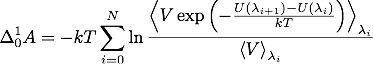
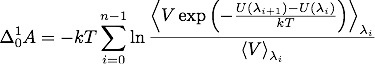
Improved docs.

diff --git a/doc/compute_fep.html b/doc/compute_fep.html
@@ -15,13 +15,13 @@
 </P>
 <PRE>compute ID group-ID fep temp attribute args ... keyword value ... 
 </PRE>
-<UL><LI>ID, group-ID are documented in <A HREF = "compute.html">compute</A> command 
+<UL><LI>ID, group-ID are documented in the <A HREF = "compute.html">compute</A> command 
 
 <LI>fep = name of this compute command 
 
 <LI>temp = external temperature (as specified for constant-temperature run) 
 
-<LI>one or more attribute with args may be appended 
+<LI>one or more attributes with args may be appended 
 
 <LI>attribute = <I>pair</I> or <I>atom</I> 
 
@@ -44,14 +44,13 @@
     <I>yes</I> = include tail correction to pair energies
   <I>volume</I> value = <I>no</I> or <I>yes</I>
     <I>no</I> = ignore volume changes (e.g. in <I>NVE</I> or <I>NVT</I> trajectories)
-    <I>yes</I> = include volume fluctuations (e.g. in <I>NpT</I> trajectories) 
+    <I>yes</I> = include volume changes (e.g. in <I>NpT</I> trajectories) 
 </PRE>
 
 </UL>
 <P><B>Examples:</B>
 </P>
-<PRE>compute 1 all fep 298 pair lj/cut epsilon 1 * v_delta pair lj/cut
-sigma 1 * v_delta volume yes
+<PRE>compute 1 all fep 298 pair lj/cut epsilon 1 * v_delta pair lj/cut sigma 1 * v_delta volume yes
 compute 1 all fep 300 atom charge 2 v_delta 
 </PRE>
 <P><B>Description:</B>
@@ -60,7 +59,7 @@ compute 1 all fep 300 atom charge 2 v_delta
 recalculate the pair potential energy without changing the atomic
 coordinates from those of the reference, unperturbed system. This
 compute can be used to calculate free energy differences using several
-methods: free-energy perturbation (FEP), finite-difference
+methods, such as free-energy perturbation (FEP), finite-difference
 thermodynamic integration (FDTI) or Bennet's acceptance ratio method
 (BAR).
 </P>
@@ -101,11 +100,11 @@ perturbation method using a very small &delta;:
 adapt</A> command can be used to define the stages of
 &lambda; at which the derivative is calculated and averaged.
 </P>
-<P>The compute fep calculates the exponential term and also the potential
-energy difference <I>U</I><sub>1</sub>-<I>U</I><sub>0</sub>. By choosing a very
-small perturbation &delta; the thermodynamic integration method can be
-implemented using a numerical evaluation of the derivative of the
-potential energy with respect to &lambda;:
+<P>The compute fep calculates the exponential Boltzmann term and also the
+potential energy difference <I>U</I><sub>1</sub>-<I>U</I><sub>0</sub>. By
+choosing a very small perturbation &delta; the thermodynamic
+integration method can be implemented using a numerical evaluation of
+the derivative of the potential energy with respect to &lambda;:
 </P>
 <CENTER><IMG SRC = "Eqs/compute_fep_ti.jpg">
 </CENTER>
@@ -148,8 +147,10 @@ the meaning of these parameters:
 </P>
 <DIV ALIGN=center><TABLE  BORDER=1 >
 <TR><TD ><A HREF = "pair_born.html">born</A></TD><TD > a,b,c</TD><TD > type pairs</TD></TR>
-<TR><TD ><A HREF = "pair_buck.html">buck</A></TD><TD > a,c</TD><TD > type pairs</TD></TR>
-<TR><TD ><A HREF = "pair_lj.html">lj/cut</A></TD><TD > epsilon,sigma</TD><TD > type pairs 
+<TR><TD ><A HREF = "pair_buck.html">buck</A></TD><TD > a,c </TD><TD > type pairs</TD></TR>
+<TR><TD ><A HREF = "pair_lj.html">lj/cut</A></TD><TD > epsilon,sigma</TD><TD > type pairs</TD></TR>
+<TR><TD ><A HREF = "pair_lj.html">lj/cut/coul/cut</A></TD><TD > epsilon,sigma</TD><TD > type pairs</TD></TR>
+<TR><TD ><A HREF = "pair_lj.html">lj/cut/coul/long</A></TD><TD > epsilon,sigma</TD><TD > type pairs 
 </TD></TR></TABLE></DIV>
 
 <P>Note that it is easy to add new potentials and their parameters to
@@ -201,38 +202,39 @@ activated via the <A HREF = "pair_modify.html">pair_modify</A> command. If the
 perturbation is small, the tail contribution to the energy difference
 between the reference and perturbed systems should be negligible.
 </P>
+<P>If the keyword <I>volume</I> = <I>yes</I>, then the Boltzmann term is multiplied
+by the volume so that correct ensemble averaging can be performed over
+trajectories during which the volume fluctuates or changes <A HREF = "#AllenTildesley">(Allen and
+Tildesley)</A>:
+</P>
+<CENTER><IMG SRC = "Eqs/compute_fep_vol.jpg">
+</CENTER>
 <HR>
 
 <P><B>Output info:</B>
 </P>
 <P>This compute calculates a global vector of length 3 which contains the
-energy difference (<I>U</I><sub>1</sub>-<I>U</I><sub>0</sub>) as c_ID[1],
-the Boltzmann factor exp(-(<I>U</I><sub>1</sub>-<I>U</I><sub>0</sub>)/<I>kT</I>)
-as c_ID[2] and the volume of the simulation box <I>V</I> as
-c_ID[3]. <I>U</I><sub>1</sub> is the pair potential energy obtained with
-the perturbed parameters and <I>U</I><sub>0</sub> is the pair potential
-energy obtained with the unperturbed parameters. These energies
-include kspace terms if these are used in the simulation.
+energy difference (<I>U</I><sub>1</sub>-<I>U</I><sub>0</sub>) as c_ID[1], the
+Boltzmann factor exp(-(<I>U</I><sub>1</sub>-<I>U</I><sub>0</sub>)/<I>kT</I>), or
+<I>V</I>exp(-(<I>U</I><sub>1</sub>-<I>U</I><sub>0</sub>)/<I>kT</I>), as c_ID[2] and the
+volume of the simulation box <I>V</I> as c_ID[3]. <I>U</I><sub>1</sub> is the
+pair potential energy obtained with the perturbed parameters and
+<I>U</I><sub>0</sub> is the pair potential energy obtained with the
+unperturbed parameters. The energies include kspace terms if these
+are used in the simulation.
 </P>
-<P>If the keyword <I>volume</I> = <I>yes</I>, then the Boltzmann factor is
-multiplied by the volume so that correct ensemble averaging can be
-performed over trajectories during which the volume fluctuates or
-changes <A HREF = "#AllenTildesley">(Allen and Tildesley)</A>:
-</P>
-<CENTER><IMG SRC = "Eqs/compute_fep_vol.jpg">
-</CENTER>
 <P>These output results can be used by any command that uses a global
 scalar or vector from a compute as input.  See <A HREF = "Section_howto.html#howto_15">Section_howto
 15</A> for an overview of LAMMPS output
 options. For example, the computed values can be averaged using <A HREF = "fix_ave_time.html">fix
-ave/time</A> to calculate the free-energy differences.
+ave/time</A>.
 </P>
 <P>The values calculated by this compute are "extensive".
 </P>
 <P><B>Restrictions:</B>
 </P>
-<P>This compute is part of the MISC package.  It is only enabled if LAMMPS
-was built with that package.  See the <A HREF = "Section_start.html#start_3">Making
+<P>This compute is part of the MISC/USER-MISC package.  It is only
+enabled if LAMMPS was built with that package.  See the <A HREF = "Section_start.html#start_3">Making
 LAMMPS</A> section for more info.
 </P>
 <P><B>Related commands:</B>

diff --git a/doc/Eqs/compute_fep_ti.tex b/doc/Eqs/compute_fep_ti.tex
@@ -4,7 +4,7 @@
 
 \[ \Delta_0^1 A = \int_{\lambda=0}^{\lambda=1} \left< \frac{\partial
     U(\lambda)}{\partial\lambda} \right>_\lambda \mathrm{d}\lambda
-\approx \sum_{i=0}^N w_i \left< \frac{U(\lambda_{i} + \delta) -
+\approx \sum_{i=0}^{n-1} w_i \left< \frac{U(\lambda_{i} + \delta) -
     U(\lambda_i)}{\delta} \right>_{\lambda_i} \]
 
 \end{document}

diff --git a/doc/Eqs/compute_fep_fdti.tex b/doc/Eqs/compute_fep_fdti.tex
@@ -4,7 +4,7 @@
 
 \[ \Delta_0^1 A = \int_{\lambda=0}^{\lambda=1} \left( \frac{\partial
     A(\lambda)}{\partial\lambda} \right)_\lambda \mathrm{d}\lambda
-\approx \sum_{i=0}^N w_i \frac{A(\lambda_{i} + \delta) -
+\approx \sum_{i=0}^{n-1} w_i \frac{A(\lambda_{i} + \delta) -
   A(\lambda_i)}{\delta} \]
 
 \end{document}

diff --git a/doc/Eqs/compute_fep_vol.tex b/doc/Eqs/compute_fep_vol.tex
@@ -2,7 +2,7 @@
 
 \begin{document}
 
-\[ \Delta_0^1 A = - kT \sum_{i=0}^N \ln \frac{\left< V \exp \left( -
+\[ \Delta_0^1 A = - kT \sum_{i=0}^{n-1} \ln \frac{\left< V \exp \left( -
     \frac{U(\lambda_{i+1}) - U(\lambda_i)}{kT} \right)
 \right>_{\lambda_i}}{\left< V \right>_{\lambda_i}} \]
 
